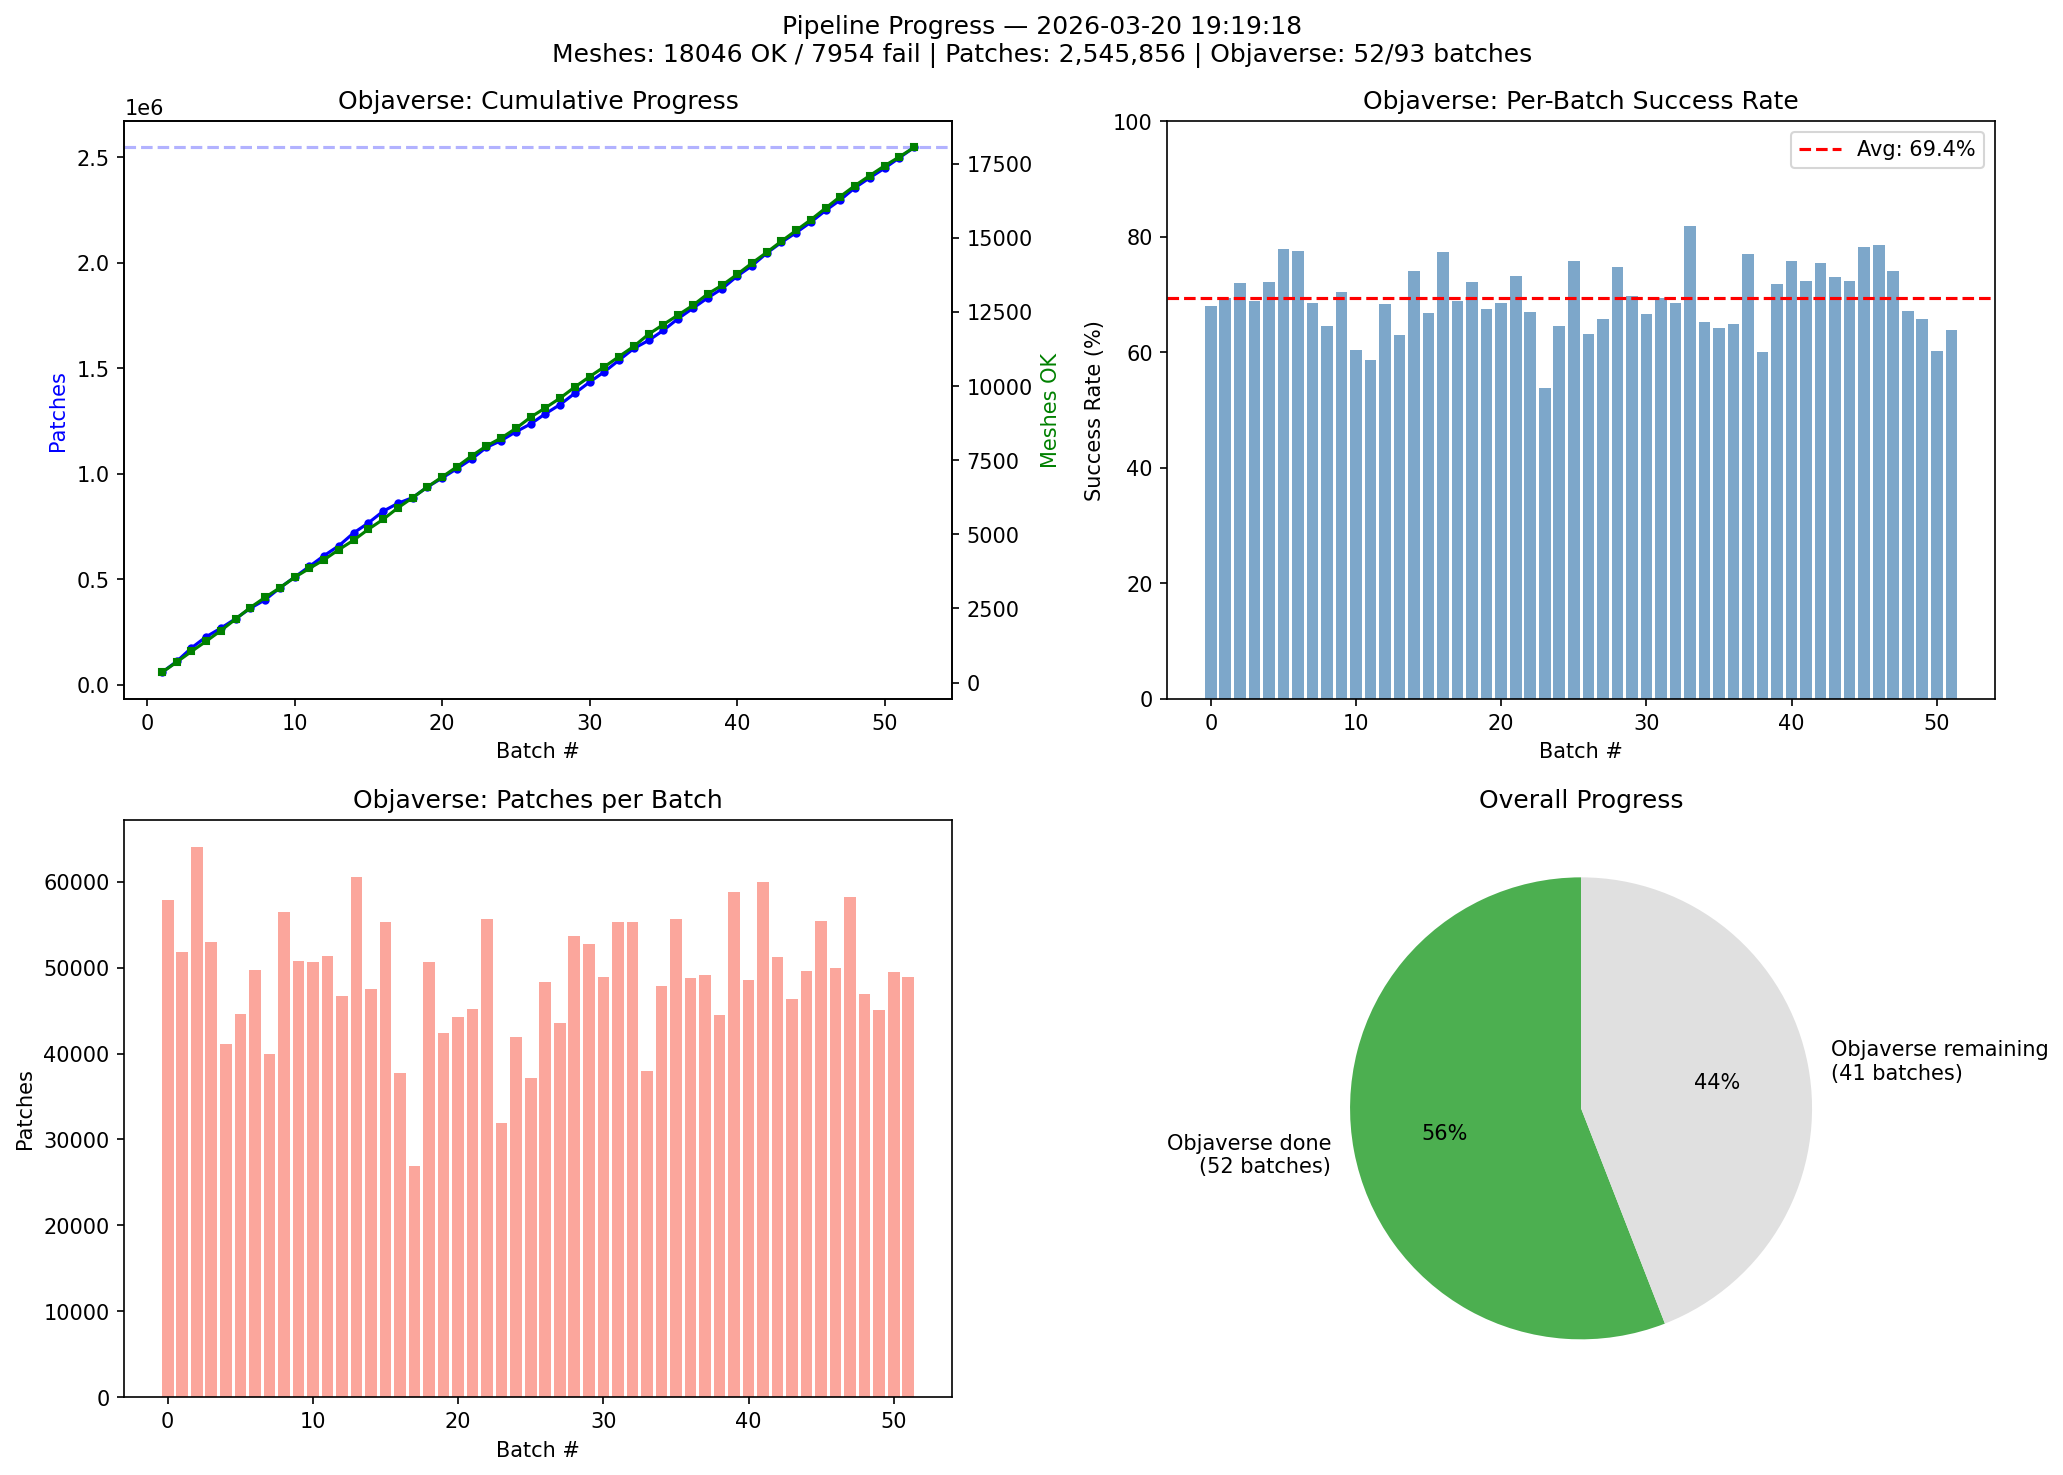
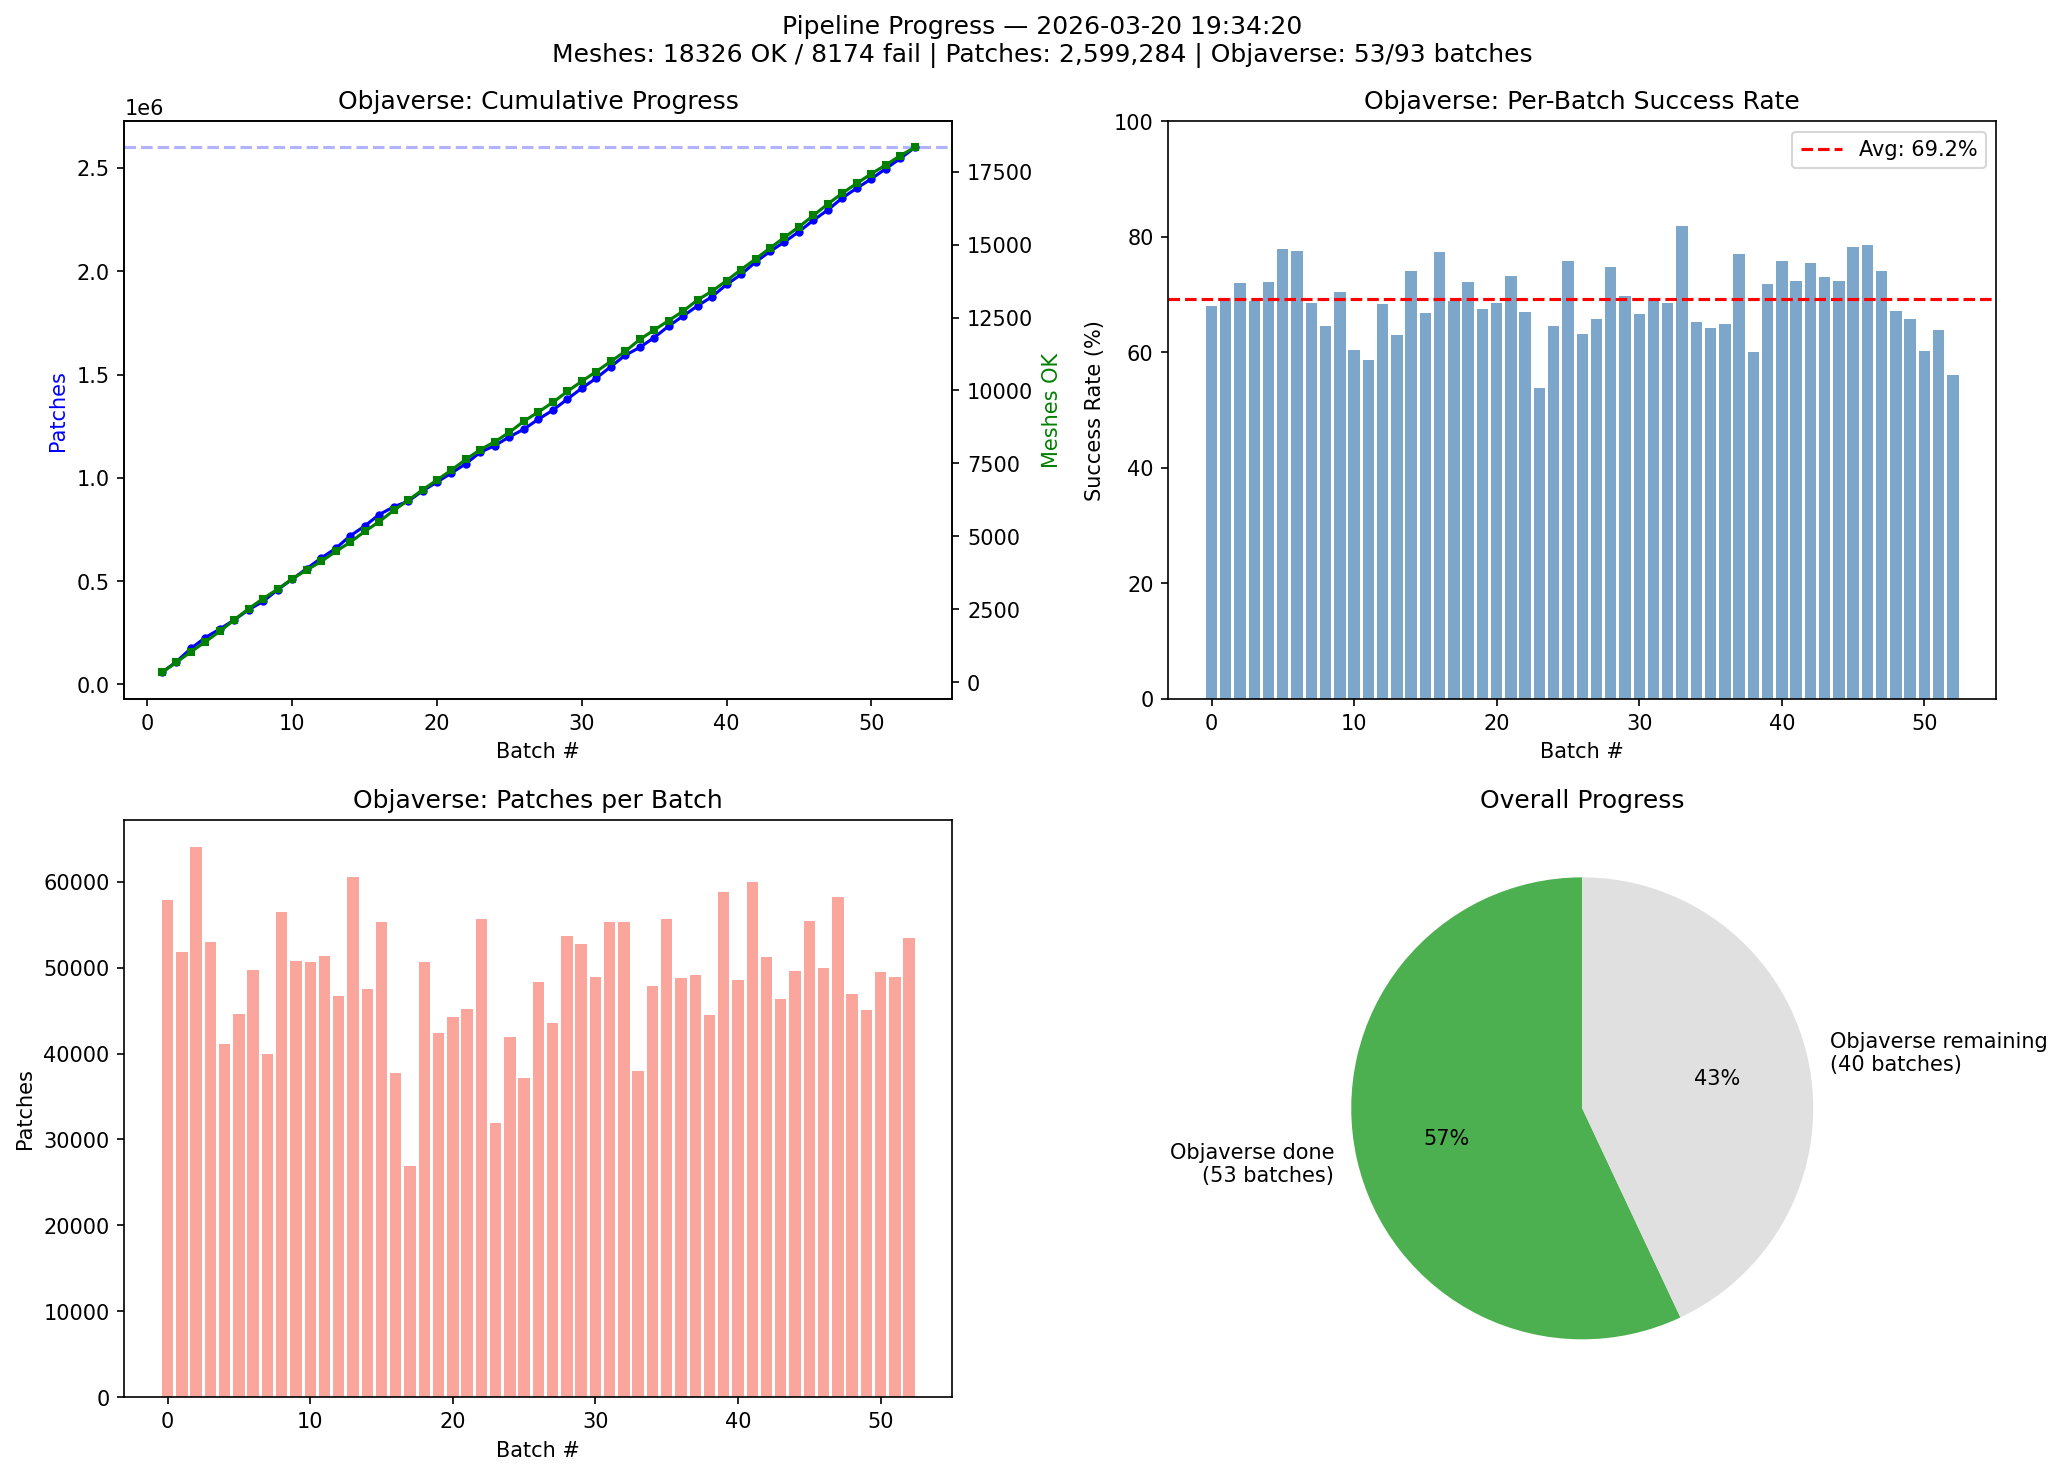
chore: update pipeline monitoring (batch_053 completed)
- Objaverse: 53/93 batches, 18326 OK / 8174 fail
- Patches: 2,599,284

diff --git a/results/dataset-pipeline/REPORT.md b/results/dataset-pipeline/REPORT.md
@@ -1,17 +1,17 @@
 # Dataset Pipeline Progress Report
 
-**Generated:** 2026-03-20 19:19:18
+**Generated:** 2026-03-20 19:34:20
 
 ## Overall
-- Total meshes processed: 18046 OK / 7954 fail
-- Total patches: 2,545,856
+- Total meshes processed: 18326 OK / 8174 fail
+- Total patches: 2,599,284
 
 ## Objaverse-LVIS (Phase 1)
-- Batches: 52 / 93 completed
-- Meshes: 18046 OK / 7954 fail
-- Success rate: 69.4%
-- Patches: 2,545,856
-- Avg patches/mesh: 141.1
+- Batches: 53 / 93 completed
+- Meshes: 18326 OK / 8174 fail
+- Success rate: 69.2%
+- Patches: 2,599,284
+- Avg patches/mesh: 141.8
 
 ## ShapeNet (Phase 2)
 - Batches: 0 completed
@@ -21,5 +21,5 @@
 
 ## Disk Usage
 - Total: 80GB
-- Used: 17GB
-- Free: 62GB
+- Used: 15GB
+- Free: 64GB
